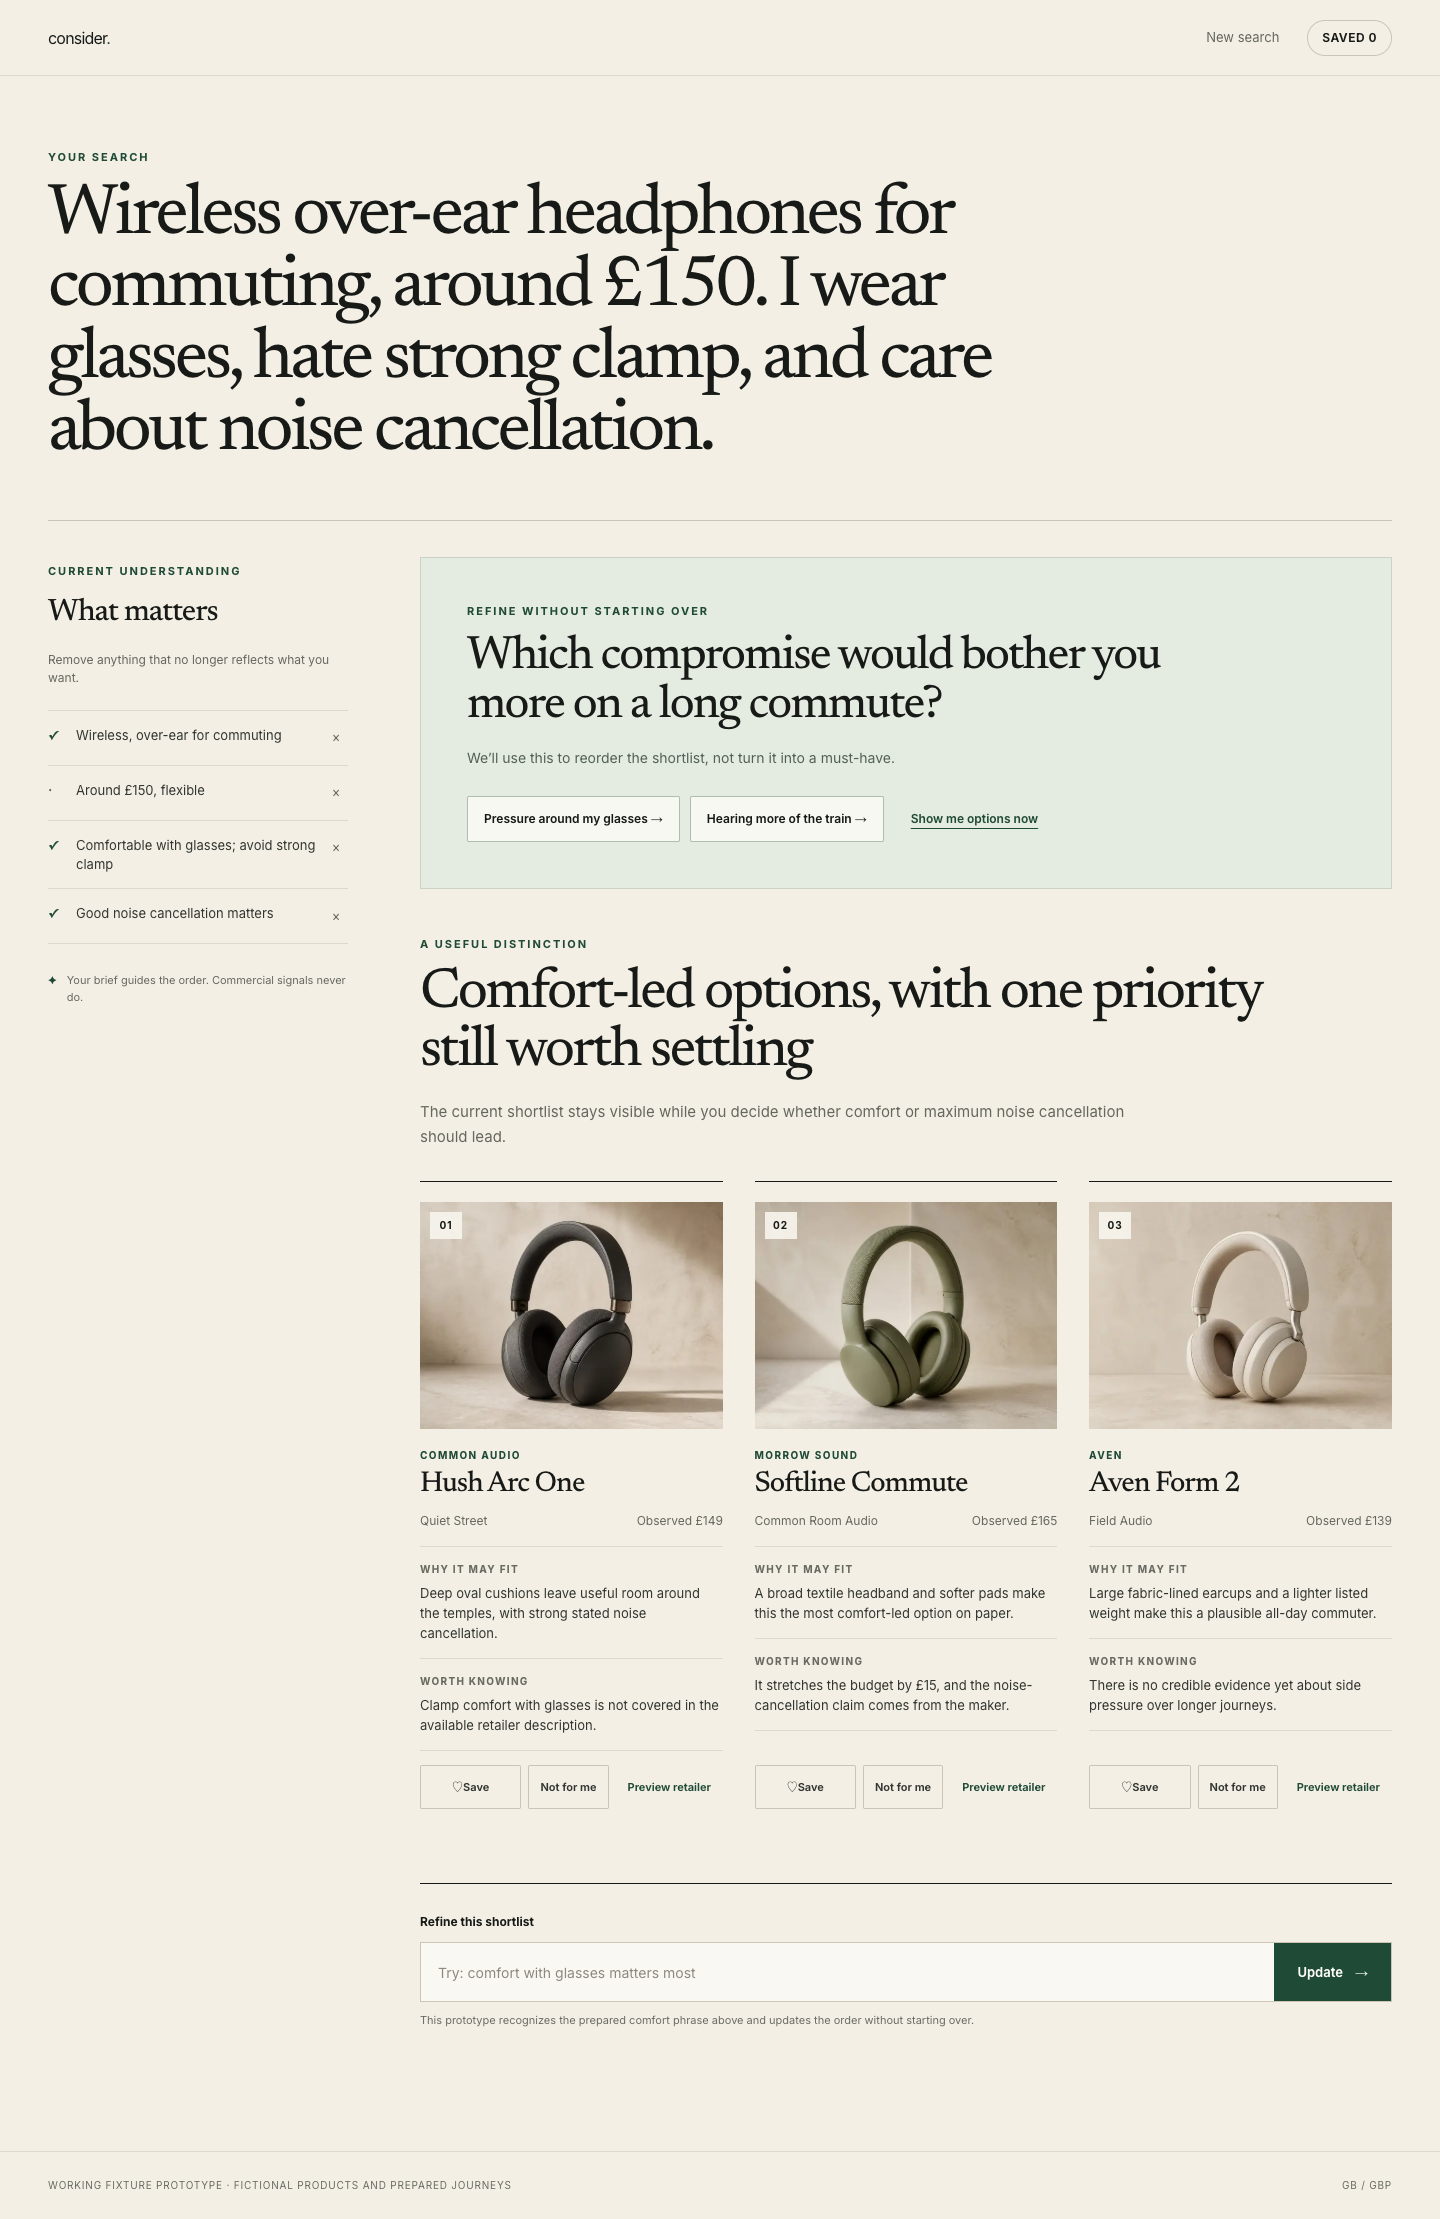
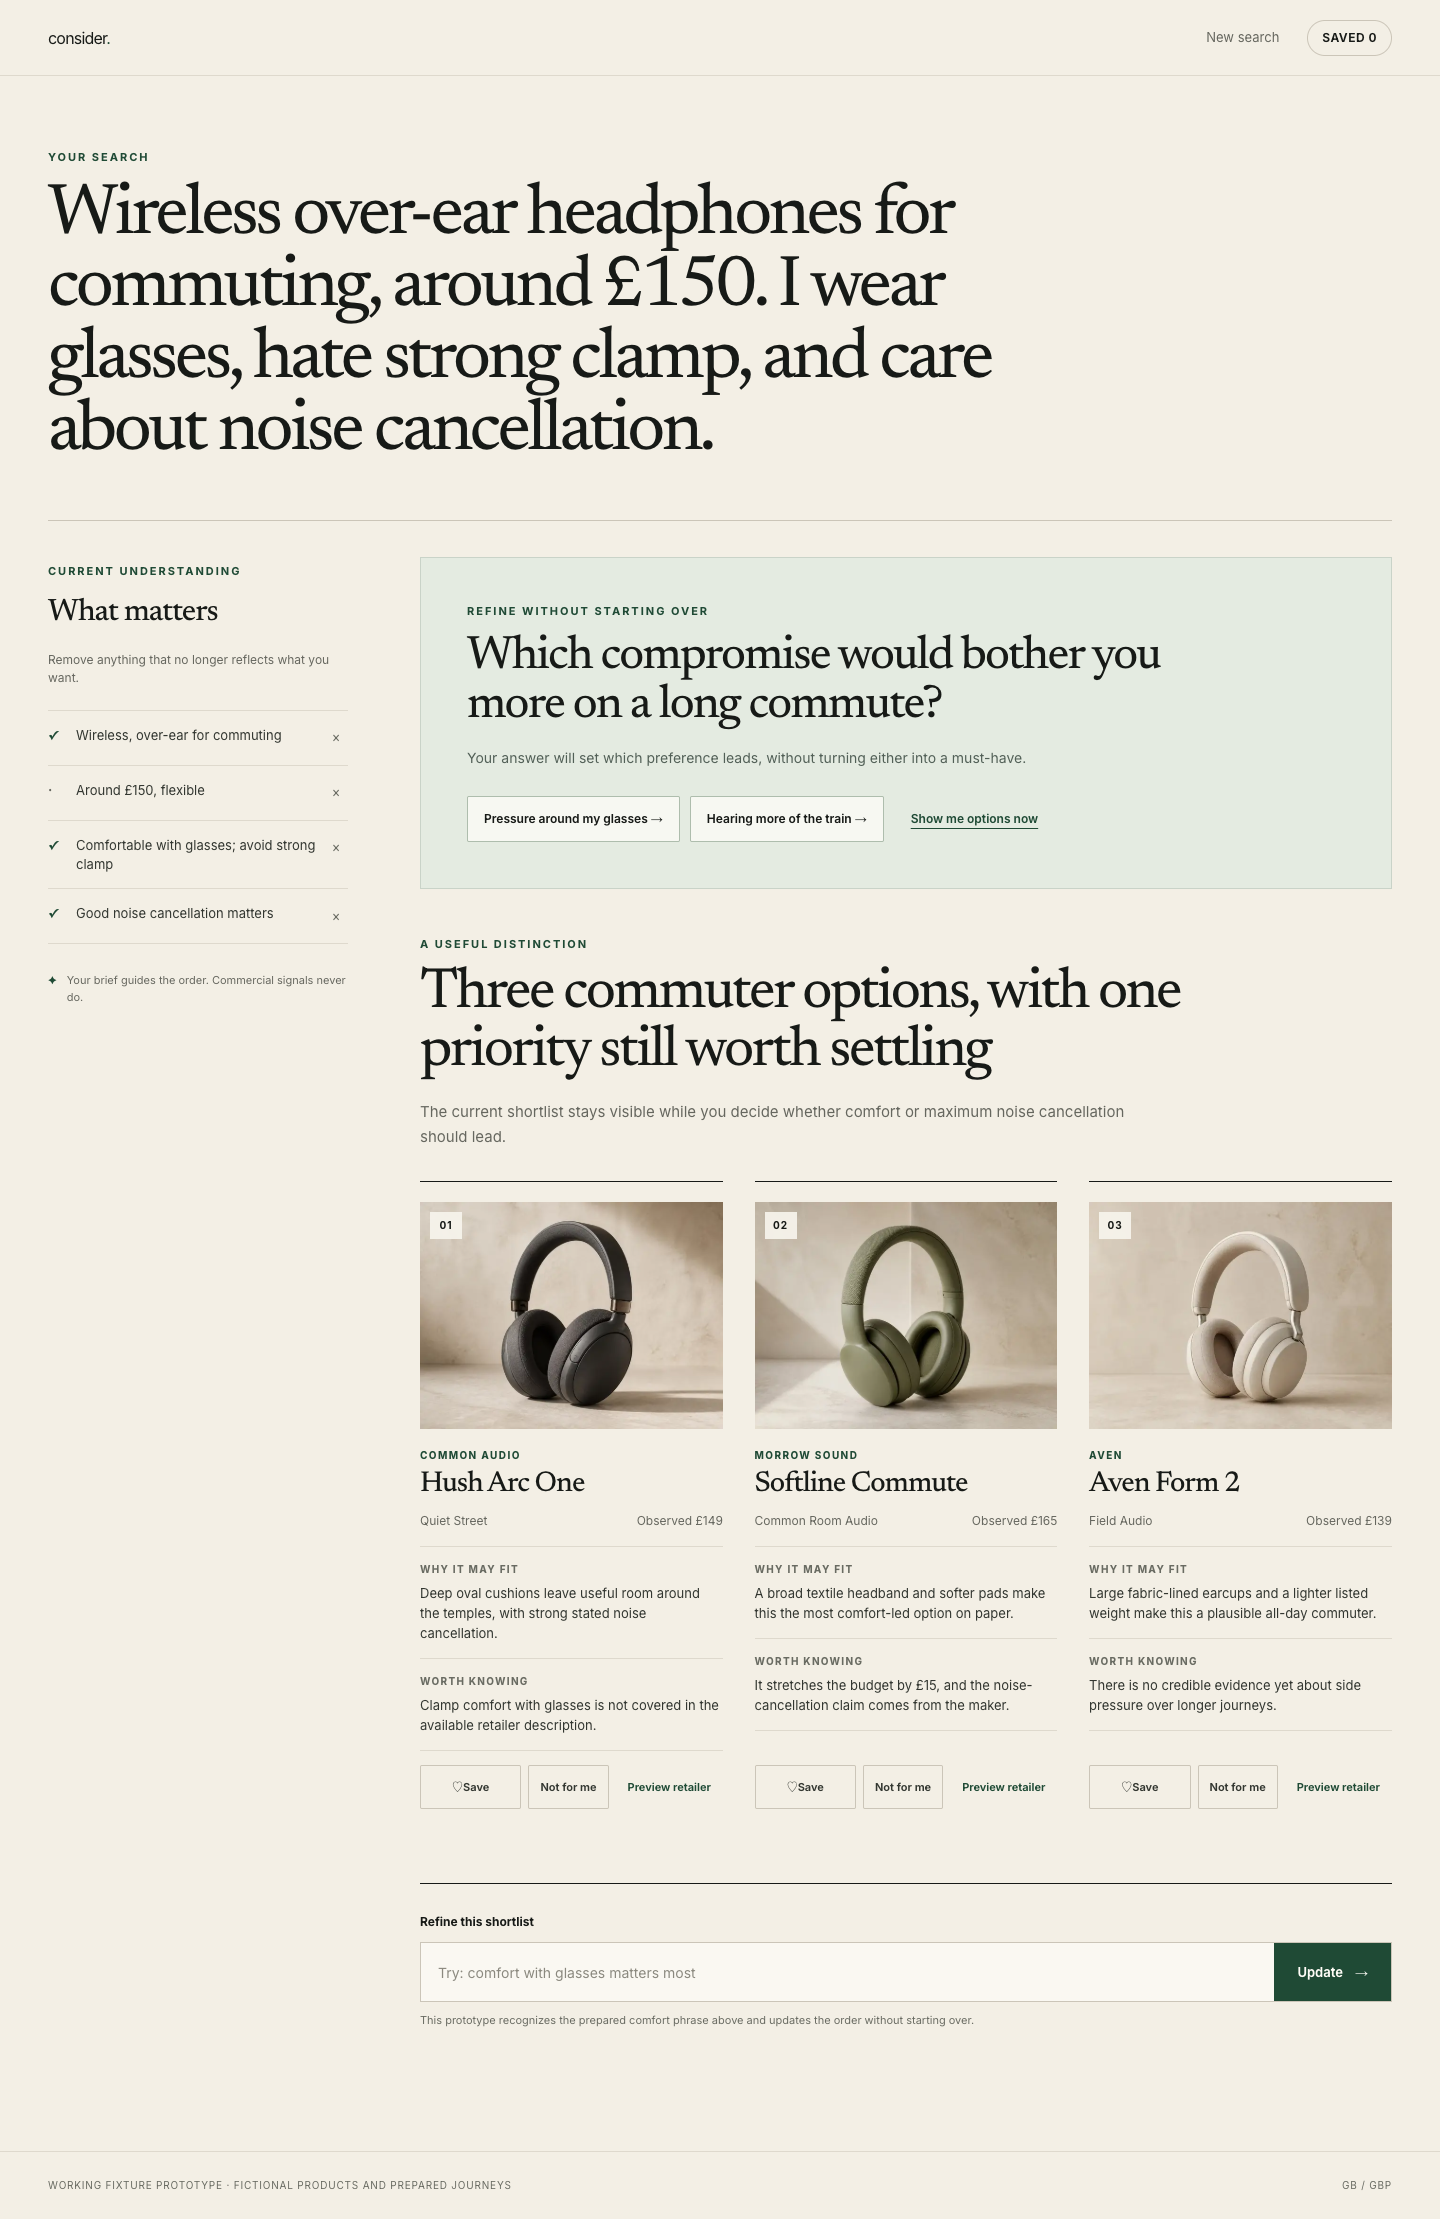
fix: align V0-02 prepared priorities

Changed region(s): [[0.2812, 0.4353, 0.875, 0.4975]]

diff --git a/src/features/shopping-preview/fixtures.ts b/src/features/shopping-preview/fixtures.ts
@@ -6,6 +6,7 @@ export type FixtureViewKey =
   | "cap-results-heat"
   | "shelving-results"
   | "headphones-results"
+  | "headphones-anc-led"
   | "headphones-refined"
   | "exact-results"
   | "degraded-results"
@@ -83,7 +84,7 @@ const capCandidates = [
     image: "/fixtures/products/cap-forest.jpg",
     imageAlt: "Unstructured deep green running cap on a warm stone backdrop",
     mayFit:
-      "The soft five-panel crown and thin fabric look closest to the barely-there feel you described.",
+      "The soft five-panel crown and thin fabric provide strong visual cues of a lightweight build.",
     worthKnowing:
       "The retailer calls it ultralight, but does not publish an exact weight.",
   },
@@ -111,7 +112,7 @@ const capCandidates = [
     mayFit:
       "Large mesh panels make this the strongest ventilation option in the fixture shortlist.",
     worthKnowing:
-      "The flatter brim may feel a little more substantial than your old race cap.",
+      "The flatter brim may feel more substantial; exact brim stiffness is not stated.",
   },
 ] as const satisfies readonly FixtureCandidateCard[];
 
@@ -127,7 +128,7 @@ const shelvingCandidates = [
     mayFit:
       "Listed at 58 × 29 cm, with an open frame that should keep the corner visually light.",
     worthKnowing:
-      "It is £4 above your target, although still inside the flexible stretch you gave us.",
+      "It is £4 above your target; it stays here because the open frame may help the corner feel visually light.",
   },
   {
     id: "shelf-column-four",
@@ -229,7 +230,7 @@ const narrowShelvingCandidates = [
 ] as const satisfies readonly FixtureCandidateCard[];
 
 const capBaseBrief: readonly FixtureBriefLine[] = [
-  { id: "cap-light", text: "Very lightweight and minimal", tone: "positive" },
+  { id: "cap-light", text: "Lightweight", tone: "positive" },
   { id: "cap-breathable", text: "Breathable in hot weather", tone: "positive" },
 ];
 
@@ -256,7 +257,7 @@ const shelvingBrief: readonly FixtureBriefLine[] = [
   { id: "shelf-depth", text: "No more than 30 cm deep", tone: "positive" },
   {
     id: "shelf-budget",
-    text: "Around £30, flexible for a better-looking option",
+    text: "Around £30; stretch only for a visually light option",
     tone: "neutral",
   },
   {
@@ -266,7 +267,7 @@ const shelvingBrief: readonly FixtureBriefLine[] = [
   },
   {
     id: "shelf-weight",
-    text: "Open and visually light, not bulky",
+    text: "Open and visually light",
     tone: "positive",
   },
 ];
@@ -333,7 +334,7 @@ export const fixtureSnapshots: Readonly<
     kicker: "A considered shortlist",
     heading: "Three caps that look genuinely light—not just labelled that way",
     intro:
-      "We looked for visible ventilation and signs of low bulk. Exact fabric weight remains unknown where it is not published.",
+      "We looked for visible ventilation and retailer descriptions of low weight. Exact fabric weight remains unknown where it is not published.",
     brief: capBaseBrief,
     candidates: capCandidates,
     question: null,
@@ -363,7 +364,7 @@ export const fixtureSnapshots: Readonly<
     intro:
       "Visible airflow now leads the shortlist. Coverage and exact fabric weight remain unknown where they are not published.",
     brief: capHeatBrief,
-    candidates: capCandidates,
+    candidates: [capCandidates[2], capCandidates[1], capCandidates[0]],
     question: null,
     notice: null,
     appliedChange: null,
@@ -376,7 +377,7 @@ export const fixtureSnapshots: Readonly<
     kicker: "Options that fit the space",
     heading: "Slim shelving without the visual weight",
     intro:
-      "These stay within your stated footprint. We kept slightly better-looking stretch options in view because your budget is flexible.",
+      "These stay within your stated footprint. We kept options above £30 only where their open form plausibly supports the visually light preference.",
     brief: shelvingBrief,
     candidates: shelvingCandidates,
     question: null,
@@ -389,7 +390,7 @@ export const fixtureSnapshots: Readonly<
     request:
       "Wireless over-ear headphones for commuting, around £150. I wear glasses, hate strong clamp, and care about noise cancellation.",
     kicker: "A useful distinction",
-    heading: "Comfort-led options, with one priority still worth settling",
+    heading: "Three commuter options, with one priority still worth settling",
     intro:
       "The current shortlist stays visible while you decide whether comfort or maximum noise cancellation should lead.",
     brief: headphoneBrief,
@@ -398,7 +399,7 @@ export const fixtureSnapshots: Readonly<
       eyebrow: "Refine without starting over",
       title: "Which compromise would bother you more on a long commute?",
       detail:
-        "We’ll use this to reorder the shortlist, not turn it into a must-have.",
+        "Your answer will set which preference leads, without turning either into a must-have.",
       choices: [
         {
           label: "Pressure around my glasses",
@@ -408,9 +409,9 @@ export const fixtureSnapshots: Readonly<
         },
         {
           label: "Hearing more of the train",
-          target: "headphones-results",
+          target: "headphones-anc-led",
           appliedChange:
-            "Kept: stronger noise cancellation remains the lead preference.",
+            "Changed: noise cancellation now leads comfort with glasses.",
         },
       ],
       skipTarget: "headphones-results",
@@ -429,6 +430,28 @@ export const fixtureSnapshots: Readonly<
       appliedChange:
         "Changed: comfort with glasses now matters more than maximum noise cancellation.",
     },
+    emptyState: null,
+  },
+  "headphones-anc-led": {
+    request:
+      "Wireless over-ear headphones for commuting, around £150. I wear glasses, hate strong clamp, and care about noise cancellation.",
+    kicker: "Priority made explicit",
+    heading: "Noise cancellation now leads; glasses comfort stays important",
+    intro:
+      "The existing order already puts the strongest stated noise-cancellation option first, so the products stay in place while the priority becomes explicit.",
+    brief: [
+      ...headphoneBrief.filter((line) => line.id !== "headphones-anc"),
+      {
+        id: "headphones-anc-refined",
+        text: "Noise cancellation leads comfort with glasses",
+        tone: "positive",
+      },
+    ],
+    candidates: headphoneCandidates,
+    question: null,
+    notice: null,
+    appliedChange: null,
+    refinement: null,
     emptyState: null,
   },
   "headphones-refined": {

diff --git a/src/features/shopping-preview/shopping-preview.test.tsx b/src/features/shopping-preview/shopping-preview.test.tsx
@@ -31,6 +31,8 @@ describe("ShoppingPreview", () => {
       }),
     ).toBeInTheDocument();
     expect(screen.queryByText(/added:/i)).not.toBeInTheDocument();
+    expect(screen.getByText("Lightweight")).toBeInTheDocument();
+    expect(screen.queryByText(/minimal/i)).not.toBeInTheDocument();
     expect(
       screen.queryByText("Avoid a thick or structured crown"),
     ).not.toBeInTheDocument();
@@ -62,6 +64,9 @@ describe("ShoppingPreview", () => {
     expect(
       screen.queryByText("Avoid a thick or structured crown"),
     ).not.toBeInTheDocument();
+    expect(screen.getAllByRole("article")[0]).toHaveAccessibleName(
+      "Kestrel Mesh Runner",
+    );
   });
 
   it("supports a zero-question exact lookup", () => {
@@ -163,7 +168,7 @@ describe("ShoppingPreview", () => {
     expect(screen.getAllByRole("article")).toHaveLength(3);
   });
 
-  it("dismisses a same-view post-result answer and shows its explicit effect", () => {
+  it("moves a post-result answer into its explicit prepared priority", () => {
     render(<ShoppingPreview initialView="headphones-results" />);
 
     fireEvent.click(
@@ -176,8 +181,13 @@ describe("ShoppingPreview", () => {
       }),
     ).not.toBeInTheDocument();
     expect(screen.getByRole("status")).toHaveTextContent(
-      "Kept: stronger noise cancellation remains the lead preference.",
+      "Changed: noise cancellation now leads comfort with glasses.",
     );
+    expect(
+      screen.getByRole("heading", {
+        name: "Noise cancellation now leads; glasses comfort stays important",
+      }),
+    ).toBeInTheDocument();
     expect(screen.getAllByRole("article")).toHaveLength(3);
   });
 
@@ -194,7 +204,7 @@ describe("ShoppingPreview", () => {
     );
     expect(
       screen.getByRole("heading", {
-        name: /comfort-led options, with one priority still worth settling/i,
+        name: /three commuter options, with one priority still worth settling/i,
       }),
     ).toBeInTheDocument();
     expect(screen.getAllByRole("article")).toHaveLength(3);
@@ -252,7 +262,7 @@ describe("ShoppingPreview", () => {
     fireEvent.click(screen.getByRole("button", { name: "Retry" }));
     expect(
       screen.getByRole("heading", {
-        name: /comfort-led options, with one priority still worth settling/i,
+        name: /three commuter options, with one priority still worth settling/i,
       }),
     ).toBeInTheDocument();
   });

diff --git a/tests/e2e/foundation.spec.ts b/tests/e2e/foundation.spec.ts
@@ -61,7 +61,7 @@ test("supports direct zero-question and honest no-match states", async ({
   await expect(page.getByRole("article")).toHaveCount(2);
 });
 
-test("resolves a post-result question even when the view key stays the same", async ({
+test("resolves a post-result question through skip and explicit priority", async ({
   page,
 }) => {
   const question = page.getByRole("heading", {
@@ -78,8 +78,13 @@ test("resolves a post-result question even when the view key stays the same", as
   await expect(question).toHaveCount(0);
   await expect(
     page.getByText(
-      "Kept: stronger noise cancellation remains the lead preference.",
+      "Changed: noise cancellation now leads comfort with glasses.",
     ),
+  ).toBeVisible();
+  await expect(
+    page.getByRole("heading", {
+      name: "Noise cancellation now leads; glasses comfort stays important",
+    }),
   ).toBeVisible();
   await expect(page.getByRole("article")).toHaveCount(3);
 });

diff --git a/docs/reviews/v0-02/README.md b/docs/reviews/v0-02/README.md
@@ -21,7 +21,8 @@ desktop (1440 × 1000), laptop (1024 × 768), and mobile (390 × 844):
 | Degraded | Partial evidence, missing imagery, and retry |
 | No matches | Successful zero-recommendation outcome and recovery choices |
 
-The capture script fails if any state has horizontal document overflow. These
+The capture script fails if any state has horizontal document overflow or if
+an expected product image still has no pixels after one reload. These
 screenshots are review evidence, not a pixel-perfect regression suite.
 
 ## Review outcome
